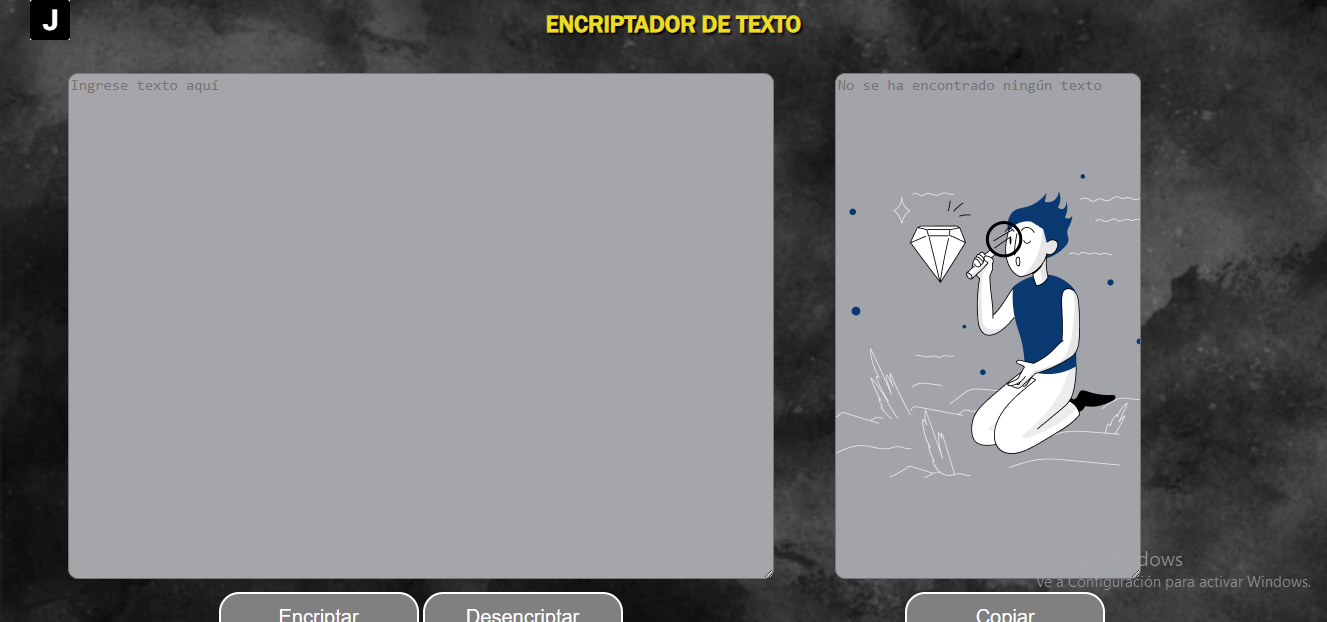
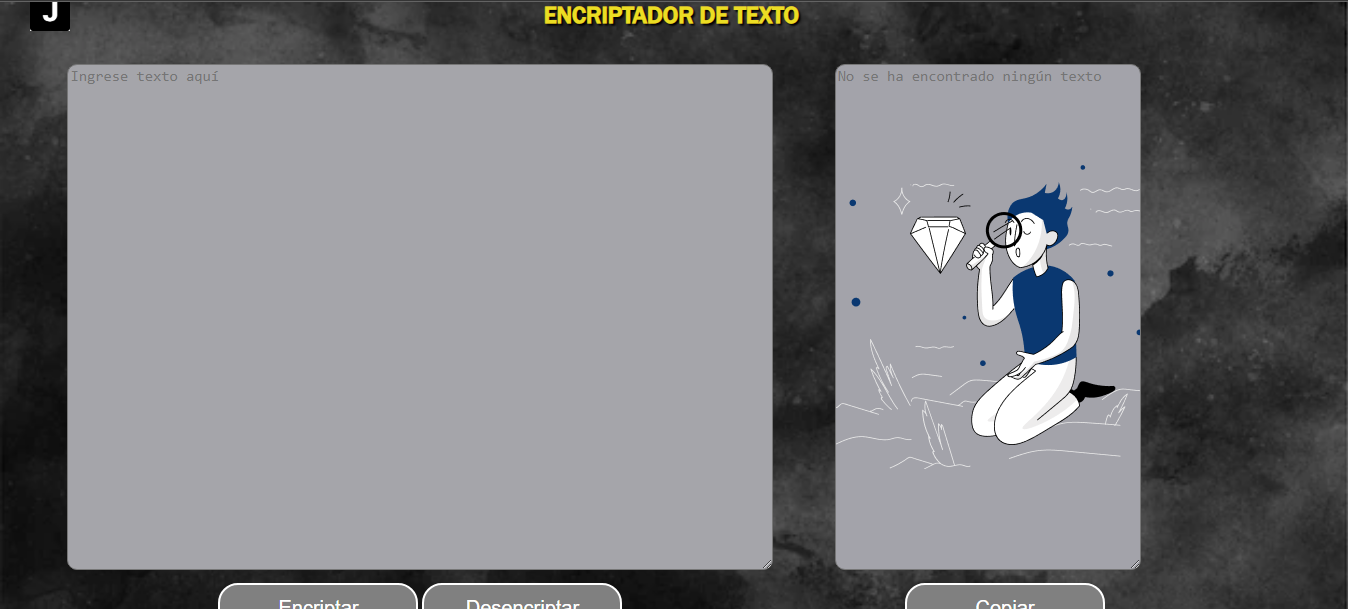
mejorando el boton y el footer

diff --git a/portafolio2/src/componentes/Proyecto.jsx b/portafolio2/src/componentes/Proyecto.jsx
@@ -1,29 +1,30 @@
-import React from 'react'
+
 import "./skills.css"
 import encriptador from "../assets/encriptador.png"
 import timer from "../assets/Timerjs.png"
-import piano from "../assets/Piano.png"
+import piano from "../assets/piano2.png"
 import ahorcado from "../assets/juego-del-ahorcado.png"
 
 function Proyecto() {
     return(
         <>
-         <h1>Mis Proyectos</h1>
+         <h1 id="proyectos">Mis Proyectos</h1>
+         
          <ul  className='cards'>
             <li className="card_item">
                 <div className='card'>
                     <h3 className="card_titulo">challenge 1 encriptador oracle/alura</h3>
                     <div className='card_content'>
-                        <span >
+                        
                             <a href="https://github.com/joaub/encriptador-challenge" target="_blank">
-                                <button className='boton'>Repositório</button>
+                                <button className='boton'><span >Repositório</span></button>
                             </a>
-                        </span>
+                        
 
-                        <span >
+                       
                             <a href="https://joaub.github.io/encriptador-challenge/" target="_blank">
-                            <button className='boton'>Ver demo</button></a>
-                        </span>
+                            <button className='boton'><span>Ver demo</span></button></a>
+                       
                          
                     </div> 
                     <img src={encriptador} className='imagen'/>   
@@ -37,13 +38,13 @@ function Proyecto() {
                     <div className='card_content'>
                         <span >
                             <a href="https://github.com/joaub/timerJS" target="_blank">
-                                <button className='boton'>Repositório</button>
+                                <button className='boton'><span >Repositório</span></button>
                             </a>
                         </span>
 
                         <span >
                             <a href="https://joaub.github.io/timerJS/" target="_blank">
-                                <button className='boton'>Ver demo</button></a>
+                            <button className='boton'><span>Ver demo</span></button></a>
                         </span>
                          
                     </div>  
@@ -58,13 +59,13 @@ function Proyecto() {
                     <div className='card_content'>            
                         <span >
                             <a href="https://github.com/joaub/pianoJs" target="_blank">
-                                <button className='boton'>Repositório</button>
+                            <button className='boton'><span >Repositório</span></button>
                             </a>
                         </span>
             
                         <span >
                             <a href="https://joaub.github.io/pianoJs/" target="_blank">
-                            <button className='boton'>Ver demo</button></a>
+                            <button className='boton'><span>Ver demo</span></button></a>
                         </span>
                     </div>
         
@@ -78,13 +79,13 @@ function Proyecto() {
                     <div className='card_content'>            
                         <span >
                         <a href="https://github.com/joaub/ahorcado-juego" target="_blank">
-                            <button className='boton'>Repositório</button>
+                        <button className='boton'><span >Repositório</span></button>
                         </a>
                         </span>
                 
                         <span >
                         <a href="https://joaub.github.io/ahorcado-juego/" target="_blank">
-                            <button className='boton'>Ver demo</button></a>
+                            <button className='boton'><span>Ver demo</span></button></a>
                         </span>
                     </div>
                     <img src={ahorcado} className='imagen'/>

diff --git a/portafolio2/src/componentes/skills.css b/portafolio2/src/componentes/skills.css
@@ -101,7 +101,10 @@
    }
   }
   .card {
-    background-color: #367fbe;
+    background-color: #639797;
+    -webkit-box-shadow: 20px 30px 40px -11px rgba(112, 139, 146, 0.62);
+    -moz-box-shadow: 20px 30px 40px -11px rgba(107, 156, 165, 0.62);
+    box-shadow: 20px 30px 40px -11px rgba(102, 140, 151, 0.62);
     border-radius: 0.5rem;
     margin: 0.25rem;
     display: flex;
@@ -123,6 +126,7 @@
     height: 320px;
     padding: 1rem;
   }
+  /*
   .boton{
     margin: 0.25rem;
   }
@@ -131,3 +135,32 @@
     font-size: 20px;
     background: #298f42;
   }
+*/
+  .boton{
+    border:0;
+    background-image: linear-gradient(
+        150deg,
+        #9500,
+        #09F,
+        #00DDFF
+    );
+    border-radius: 8px;
+color:#fff;
+display: flex;
+font-size: 12px;
+padding: 4px;
+cursor: pointer;
+transition: .3s;
+}
+
+.boton span{
+    background-color: #111;
+    padding: 10px 20px;
+    border-radius: 6px;
+    transition: .3s;
+}
+.boton:hover span {
+    background: none;
+}
+
+

diff --git a/portafolio2/src/componentes/PrimerComponente.jsx b/portafolio2/src/componentes/PrimerComponente.jsx
@@ -1,5 +1,5 @@
 // eslint-disable-next-line no-unused-vars
-import React from 'react'
+
 import '../App.css'
 import Typewriter from 'typewriter-effect';
 import persona from '../assets/persona.jpg' 
@@ -10,7 +10,7 @@ function PrimerComponente() {
   return (
     <>
     <div >
-      <nav>
+      <nav className='inicio'>
         
           <a href="#contacto" className='nav'>contacto</a>
           <a href="#skills" className='nav'>skills</a>

diff --git a/portafolio2/src/App.css b/portafolio2/src/App.css
@@ -45,13 +45,22 @@
   outline: 2px blue solid;
 }
 
+.inicio{
+  margin: 1rem;
+  padding: 1rem;
+  
+}
+
 .nav{
+  
   padding: 1rem;
   font-size: 17px;
-  color: #2d93c2
+  color: #e8f8ff;
+  margin: 0.5rem;
   
 }
 .nav:hover{
   font-size: 22px;
-  outline: #2d93c2 1px solid;
+  background-color: #3320dd;
+  outline: #f0faff 1px solid;
 }

diff --git a/portafolio2/src/componentes/SegundoComponente.jsx b/portafolio2/src/componentes/SegundoComponente.jsx
@@ -1,5 +1,5 @@
 // eslint-disable-next-line no-unused-vars
-import React from 'react'
+
 import "./skills.css"
 
 function SegundoComponente() {
